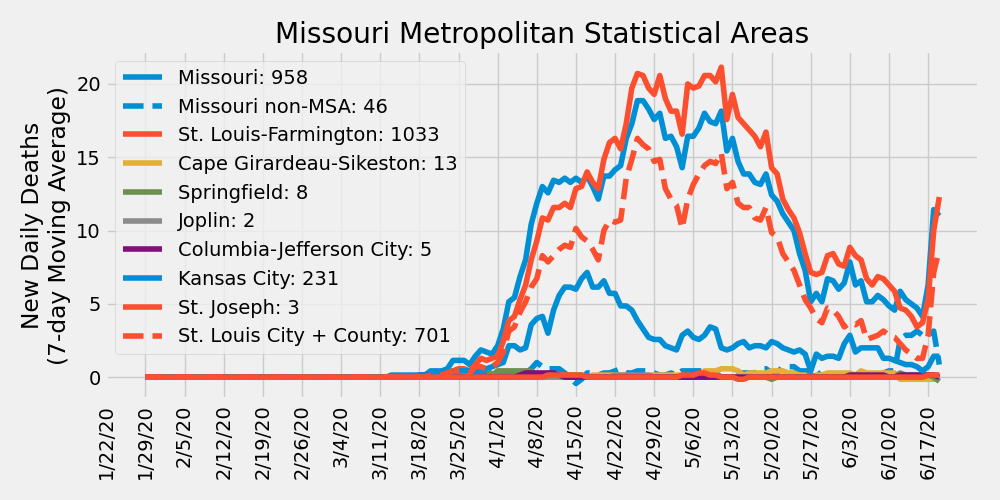
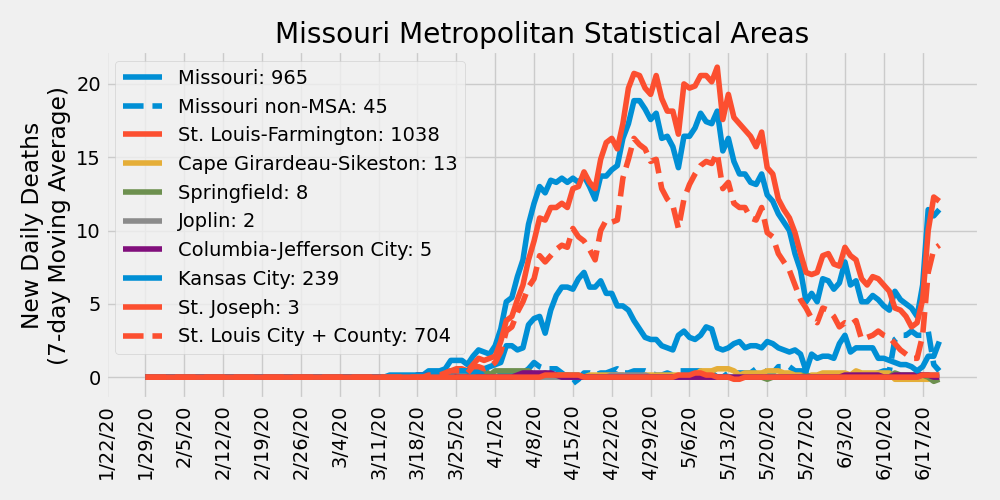
update 6/21/2020

diff --git a/ajvogt-analysis/missouri_analysis.md b/ajvogt-analysis/missouri_analysis.md
@@ -1,6 +1,6 @@
 # COVID-19 Missouri Statistics & Regional Breakdowns
 Author: Adam J. Vogt  
-Updated: 06/20/2020  
+Updated: 06/21/2020  
 Source: [COVID-19 Data Repository by the Center for Systems Science and Engineering (CSSE) at Johns Hopkins University](https://github.com/CSSEGISandData/COVID-19)  
 Source Code: `/ajvogt-analysis/mo_analysis_script.py`
 
@@ -27,66 +27,66 @@ Legend shows cumulative confirmed cases
 | MSA | State | County | Total Cases | Total Deaths |
 |-----|-------|--------|---|---|
 | St. Louis-Farmington | Missouri | Lincoln | 91 | 1 |
-| St. Louis-Farmington | Missouri | Warren | 32 | 0 |
-| St. Louis-Farmington | Missouri | Franklin | 180 | 18 |
-| St. Louis-Farmington | Missouri | Jefferson | 391 | 19 |
-| St. Louis-Farmington | Missouri | St. Charles | 943 | 69 |
-| St. Louis-Farmington | Missouri | St. Louis | 5769 | 547 |
+| St. Louis-Farmington | Missouri | Warren | 33 | 0 |
+| St. Louis-Farmington | Missouri | Franklin | 188 | 18 |
+| St. Louis-Farmington | Missouri | Jefferson | 401 | 19 |
+| St. Louis-Farmington | Missouri | St. Charles | 951 | 69 |
+| St. Louis-Farmington | Missouri | St. Louis | 5825 | 550 |
 | St. Louis-Farmington | Missouri | St. Louis City | 2319 | 154 |
 | St. Louis-Farmington | Missouri | St. Francois | 50 | 2 |
-| St. Louis-Farmington | Illinois | Monroe | 111 | 12 |
-| St. Louis-Farmington | Illinois | St. Clair | 1561 | 123 |
-| St. Louis-Farmington | Illinois | Madison | 785 | 66 |
+| St. Louis-Farmington | Illinois | Monroe | 112 | 12 |
+| St. Louis-Farmington | Illinois | St. Clair | 1584 | 125 |
+| St. Louis-Farmington | Illinois | Madison | 800 | 66 |
 | St. Louis-Farmington | Illinois | Macoupin | 47 | 3 |
 | St. Louis-Farmington | Illinois | Jersey | 29 | 1 |
-| St. Louis-Farmington | Illinois | Clinton | 220 | 17 |
+| St. Louis-Farmington | Illinois | Clinton | 223 | 17 |
 | St. Louis-Farmington | Illinois | Calhoun | 1 | 0 |
 | St. Louis-Farmington | Illinois | Bond | 12 | 1 |
-| Cape Girardeau-Sikeston | Missouri | Cape Girardeau | 117 | 3 |
-| Cape Girardeau-Sikeston | Missouri | Bollinger | 11 | 0 |
-| Cape Girardeau-Sikeston | Illinois | Alexander | 18 | 0 |
-| Cape Girardeau-Sikeston | Missouri | Scott | 155 | 10 |
-| Springfield | Missouri | Greene | 214 | 8 |
-| Springfield | Missouri | Christian | 31 | 0 |
+| Cape Girardeau-Sikeston | Missouri | Cape Girardeau | 119 | 3 |
+| Cape Girardeau-Sikeston | Missouri | Bollinger | 12 | 0 |
+| Cape Girardeau-Sikeston | Illinois | Alexander | 20 | 0 |
+| Cape Girardeau-Sikeston | Missouri | Scott | 157 | 10 |
+| Springfield | Missouri | Greene | 218 | 8 |
+| Springfield | Missouri | Christian | 32 | 0 |
 | Springfield | Missouri | Webster | 20 | 0 |
 | Springfield | Missouri | Polk | 10 | 0 |
 | Springfield | Missouri | Dallas | 9 | 0 |
-| Joplin | Missouri | Jasper | 196 | 0 |
-| Joplin | Missouri | Newton | 123 | 2 |
+| Joplin | Missouri | Jasper | 239 | 0 |
+| Joplin | Missouri | Newton | 177 | 2 |
 | Columbia-Jefferson City | Missouri | Howard | 3 | 0 |
-| Columbia-Jefferson City | Missouri | Boone | 246 | 2 |
+| Columbia-Jefferson City | Missouri | Boone | 257 | 2 |
 | Columbia-Jefferson City | Missouri | Cooper | 12 | 0 |
 | Columbia-Jefferson City | Missouri | Moniteau | 49 | 1 |
-| Columbia-Jefferson City | Missouri | Cole | 58 | 1 |
+| Columbia-Jefferson City | Missouri | Cole | 60 | 1 |
 | Columbia-Jefferson City | Missouri | Callaway | 42 | 1 |
 | Columbia-Jefferson City | Missouri | Osage | 5 | 0 |
-| Kansas City | Missouri | Kansas City | 1872 | 30 |
-| Kansas City | Missouri | Jackson | 976 | 22 |
-| Kansas City | Missouri | Clay | 334 | 3 |
-| Kansas City | Missouri | Cass | 112 | 8 |
+| Kansas City | Missouri | Kansas City | 1914 | 30 |
+| Kansas City | Missouri | Jackson | 1016 | 22 |
+| Kansas City | Missouri | Clay | 342 | 8 |
+| Kansas City | Missouri | Cass | 116 | 8 |
 | Kansas City | Missouri | Platte | 102 | 4 |
 | Kansas City | Missouri | Lafayette | 86 | 2 |
 | Kansas City | Missouri | Ray | 25 | 0 |
-| Kansas City | Missouri | Clinton | 22 | 0 |
+| Kansas City | Missouri | Clinton | 23 | 0 |
 | Kansas City | Missouri | Bates | 12 | 1 |
-| Kansas City | Missouri | Caldwell | 8 | 0 |
-| Kansas City | Kansas | Johnson | 1197 | 77 |
-| Kansas City | Kansas | Wyandotte | 1834 | 77 |
+| Kansas City | Missouri | Caldwell | 9 | 0 |
+| Kansas City | Kansas | Johnson | 1236 | 79 |
+| Kansas City | Kansas | Wyandotte | 1834 | 78 |
 | Kansas City | Kansas | Leavenworth | 1122 | 7 |
 | Kansas City | Kansas | Miami | 20 | 0 |
 | Kansas City | Kansas | Linn | 12 | 0 |
-| St. Joseph | Missouri | Andrew | 39 | 0 |
-| St. Joseph | Missouri | Buchanan | 802 | 3 |
+| St. Joseph | Missouri | Andrew | 41 | 0 |
+| St. Joseph | Missouri | Buchanan | 805 | 3 |
 | St. Joseph | Missouri | DeKalb | 10 | 0 |
 | St. Joseph | Kansas | Doniphan | 24 | 0 |
-| Missouri non-MSA | Missouri | Adair |  85 | 0 |
+| Missouri non-MSA | Missouri | Adair |  84 | 0 |
 | Missouri non-MSA | Missouri | Atchison |  3 | 0 |
-| Missouri non-MSA | Missouri | Audrain |  133 | 1 |
-| Missouri non-MSA | Missouri | Barry |  28 | 0 |
+| Missouri non-MSA | Missouri | Audrain |  134 | 1 |
+| Missouri non-MSA | Missouri | Barry |  31 | 0 |
 | Missouri non-MSA | Missouri | Barton |  15 | 0 |
-| Missouri non-MSA | Missouri | Benton |  14 | 0 |
-| Missouri non-MSA | Missouri | Butler |  59 | 0 |
-| Missouri non-MSA | Missouri | Camden |  45 | 1 |
+| Missouri non-MSA | Missouri | Benton |  15 | 0 |
+| Missouri non-MSA | Missouri | Butler |  62 | 0 |
+| Missouri non-MSA | Missouri | Camden |  47 | 1 |
 | Missouri non-MSA | Missouri | Carroll |  11 | 0 |
 | Missouri non-MSA | Missouri | Carter |  6 | 1 |
 | Missouri non-MSA | Missouri | Cedar |  9 | 0 |
@@ -97,58 +97,58 @@ Legend shows cumulative confirmed cases
 | Missouri non-MSA | Missouri | Daviess |  7 | 0 |
 | Missouri non-MSA | Missouri | Dent |  1 | 0 |
 | Missouri non-MSA | Missouri | Douglas |  3 | 0 |
-| Missouri non-MSA | Missouri | Dunklin |  66 | 3 |
-| Missouri non-MSA | Missouri | Gasconade |  3 | 0 |
+| Missouri non-MSA | Missouri | Dunklin |  79 | 3 |
+| Missouri non-MSA | Missouri | Gasconade |  4 | 0 |
 | Missouri non-MSA | Missouri | Gentry |  54 | 9 |
-| Missouri non-MSA | Missouri | Grundy |  16 | 0 |
+| Missouri non-MSA | Missouri | Grundy |  17 | 0 |
 | Missouri non-MSA | Missouri | Harrison |  9 | 0 |
 | Missouri non-MSA | Missouri | Henry |  17 | 3 |
 | Missouri non-MSA | Missouri | Hickory |  0 | 0 |
-| Missouri non-MSA | Missouri | Holt |  1 | 0 |
-| Missouri non-MSA | Missouri | Howell |  31 | 0 |
+| Missouri non-MSA | Missouri | Holt |  2 | 0 |
+| Missouri non-MSA | Missouri | Howell |  30 | 0 |
 | Missouri non-MSA | Missouri | Iron |  2 | 0 |
 | Missouri non-MSA | Missouri | Knox |  2 | 0 |
-| Missouri non-MSA | Missouri | Laclede |  12 | 0 |
+| Missouri non-MSA | Missouri | Laclede |  16 | 0 |
 | Missouri non-MSA | Missouri | Lawrence |  11 | 0 |
 | Missouri non-MSA | Missouri | Lewis |  7 | 1 |
 | Missouri non-MSA | Missouri | Livingston |  6 | 0 |
-| Missouri non-MSA | Missouri | McDonald |  132 | 0 |
+| Missouri non-MSA | Missouri | McDonald |  170 | 0 |
 | Missouri non-MSA | Missouri | Macon |  7 | 0 |
 | Missouri non-MSA | Missouri | Maries |  2 | 0 |
-| Missouri non-MSA | Missouri | Marion |  10 | 0 |
+| Missouri non-MSA | Missouri | Marion |  11 | 0 |
 | Missouri non-MSA | Missouri | Mercer |  5 | 0 |
-| Missouri non-MSA | Missouri | Miller |  8 | 0 |
+| Missouri non-MSA | Missouri | Miller |  10 | 0 |
 | Missouri non-MSA | Missouri | Mississippi |  77 | 0 |
 | Missouri non-MSA | Missouri | Montgomery |  13 | 0 |
 | Missouri non-MSA | Missouri | Morgan |  12 | 0 |
-| Missouri non-MSA | Missouri | New Madrid |  34 | 2 |
+| Missouri non-MSA | Missouri | New Madrid |  34 | 1 |
 | Missouri non-MSA | Missouri | Nodaway |  17 | 0 |
 | Missouri non-MSA | Missouri | Oregon |  6 | 0 |
-| Missouri non-MSA | Missouri | Ozark |  0 | 0 |
+| Missouri non-MSA | Missouri | Ozark |  1 | 0 |
 | Missouri non-MSA | Missouri | Pemiscot |  105 | 6 |
-| Missouri non-MSA | Missouri | Perry |  88 | 0 |
-| Missouri non-MSA | Missouri | Pettis |  95 | 1 |
-| Missouri non-MSA | Missouri | Phelps |  6 | 0 |
+| Missouri non-MSA | Missouri | Perry |  91 | 0 |
+| Missouri non-MSA | Missouri | Pettis |  98 | 1 |
+| Missouri non-MSA | Missouri | Phelps |  7 | 0 |
 | Missouri non-MSA | Missouri | Pike |  33 | 1 |
 | Missouri non-MSA | Missouri | Pulaski |  106 | 1 |
 | Missouri non-MSA | Missouri | Putnam |  2 | 0 |
-| Missouri non-MSA | Missouri | Ralls |  5 | 0 |
+| Missouri non-MSA | Missouri | Ralls |  6 | 0 |
 | Missouri non-MSA | Missouri | Randolph |  12 | 0 |
 | Missouri non-MSA | Missouri | Reynolds |  2 | 0 |
-| Missouri non-MSA | Missouri | Ripley |  12 | 0 |
-| Missouri non-MSA | Missouri | Ste. Genevieve |  14 | 1 |
+| Missouri non-MSA | Missouri | Ripley |  14 | 0 |
+| Missouri non-MSA | Missouri | Ste. Genevieve |  16 | 1 |
 | Missouri non-MSA | Missouri | Saline |  278 | 4 |
 | Missouri non-MSA | Missouri | Schuyler |  2 | 0 |
 | Missouri non-MSA | Missouri | Scotland |  8 | 1 |
 | Missouri non-MSA | Missouri | Shannon |  6 | 0 |
 | Missouri non-MSA | Missouri | Shelby |  2 | 0 |
-| Missouri non-MSA | Missouri | Stoddard |  127 | 7 |
+| Missouri non-MSA | Missouri | Stoddard |  126 | 7 |
 | Missouri non-MSA | Missouri | Stone |  10 | 0 |
-| Missouri non-MSA | Missouri | Sullivan |  93 | 0 |
+| Missouri non-MSA | Missouri | Sullivan |  96 | 0 |
 | Missouri non-MSA | Missouri | Taney |  30 | 2 |
-| Missouri non-MSA | Missouri | Texas |  1 | 0 |
+| Missouri non-MSA | Missouri | Texas |  2 | 0 |
 | Missouri non-MSA | Missouri | Vernon |  12 | 0 |
 | Missouri non-MSA | Missouri | Washington |  14 | 1 |
-| Missouri non-MSA | Missouri | Wayne |  0 | 0 |
+| Missouri non-MSA | Missouri | Wayne |  1 | 0 |
 | Missouri non-MSA | Missouri | Worth |  4 | 0 |
 | Missouri non-MSA | Missouri | Wright |  14 | 0 |
